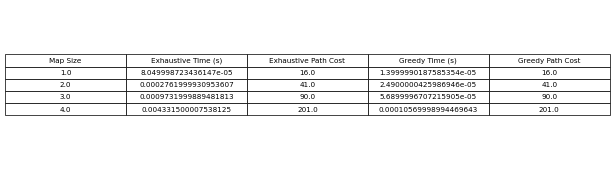
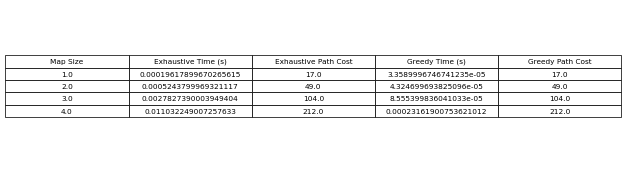
probleem ontdekt

Changed region(s): [[0.0, 0.3235, 1.0, 0.6765]]

diff --git a/assignment2_2361353_3326500_notebook_backup.py b/assignment2_2361353_3326500_notebook_backup.py
@@ -453,7 +453,6 @@ class BFSSolverShortestPath():
         Hint, use object attributes to store results.
         """
         while self.priorityqueue: 
-            self.priorityqueue.sort() # Sort the priority queue
             current_distance, current_node = self.priorityqueue.pop(0)
             
             if self.base_case(current_node): # If the base case is reached
@@ -619,11 +618,130 @@ def coordinate_to_node(map_, graph, coordinate):
 
     return closest_nodes
 
+############ CODE BLOCK 220 ################
+
+def create_country_graphs(map_):
+    """
+    This function returns a list of all graphs of a country map, where the first graph is the highways and the rest are the cities.
+
+    :param map_: The country map
+    :type map_: Map
+    :return: A list of graphs
+    :rtype: list[Graph]
+    """
+    main_graph = Graph(map_)
+    highway_graph = Graph(map_)
+    highway_graph.adjacency_list = {}
+    city_graphs = []
+
+    visited = set()
+    
+    for node, value in np.ndenumerate(map_):
+        if value == 2:  # Assuming 2 represents highways
+            highway_graph.adjacency_list[node] = set()
+        elif value == 1:  # Assuming 1 represents city roads
+            if node not in visited:
+                city_queue = deque([node])
+                city_nodes = set()
+                
+                while city_queue:
+                    current_node = city_queue.popleft()
+                    if current_node in visited:
+                        continue
+                    visited.add(current_node)
+                    city_nodes.add(current_node)
+                    
+                    for neighbor in main_graph.neighbour_coordinates(current_node):
+                        if map_[neighbor] == 1 and neighbor not in visited:
+                            city_queue.append(neighbor)
+                
+                city_graph = Graph(map_)
+                city_graph.adjacency_list = {n: set() for n in city_nodes}
+                city_graph.find_edges()
+                city_graphs.append(city_graph)
+
+    highway_graph.find_edges()
+    return [highway_graph] + city_graphs
+
+############ CODE BLOCK 230 ################
+
+class BFSSolverMultipleFastestPaths(BFSSolverFastestPath):
+    """
+    A class instance should at least contain the following attributes after being called:
+        :param priorityqueue: A priority queue that contains all the nodes that need to be visited including the time it takes to reach these nodes.
+        :type priorityqueue: list[tuple[tuple[int], float]]
+        :param history: A dictionary containing the nodes that are visited and as values the node that leads to this node including the time it takes from the start node.
+        :type history: dict[tuple[int], tuple[tuple[int], float]]
+        :param found_destinations: The destinations already found with Dijkstra.
+        :type found_destinations: list[tuple[int]]
+    """
+    def __init__(self, find_at_most=3):
+        """
+        This init makes it possible to make a different Dijkstra algorithm 
+        that find more or less destination nodes before it stops searching.
+
+        :param find_at_most: The number of found destination nodes before the algorithm stops
+        :type find_at_most: int
+        """
+        self.find_at_most = find_at_most
+    
+    def __call__(self, graph, sources, destinations, vehicle_speed):      
+        """
+        This method gives the top three fastest routes through the grid from any of the sources to any of the destinations.
+        You start at the sources and the algorithm ends if you reach enough destinations, both nodes should be included in the path.
+        A route consists of a list of nodes (which are coordinates).
+
+        :param graph: The graph that represents the map.
+        :type graph: Graph
+        :param sources: The nodes where the path starts and the time it took to get here.
+        :type sources: list[tuple[tuple[int], float]]
+        :param destinations: The nodes where the path ends and the time it took to get here.
+        :type destinations: list[tuple[tuple[int], float]]
+        :param vehicle_speed: The maximum speed of the vehicle.
+        :type vehicle_speed: float
+        :return: A list of the n fastest paths and time they take, sorted from fastest to slowest 
+        :rtype: list[tuple[path, float]], where path is a fictional data type consisting of a list[tuple[int]]
+        """       
+        self.priorityqueue = sorted(sources, key=lambda x:x[1])
+        self.history = {s: (None, t) for s, t in sources}
+        
+        self.destinations = destinations
+        self.destination_nodes = [dest[0] for dest in destinations]
+        self.found_destinations = []
+
+        raise NotImplementedError("Please complete this method")       
+
+    def find_n_paths(self):
+        """
+        This method needs to find the top `n` fastest paths between any source node and any destination node.
+        This does not mean that each source node has to be in a path nor that each destination node needs to be in a path.
+
+        Hint1: The fastest path is stored in each node by linking to the previous node. 
+               Therefore, if you start searching from a destination node,
+               you always find the optimal path from that destination node.
+               This is similar if you only had one destination node.         
+
+        :return: A list of the n fastest paths and time they take, sorted from fastest to slowest 
+        :rtype: list[tuple[path, float]], where path is a fictional data type consisting of a list[tuple[int]]
+        """
+        raise NotImplementedError("Please complete this method")       
+        
+    def base_case(self, node):
+        """
+        This method checks if the base case is reached and
+        updates self.found_destinations
+
+        :param node: The current node
+        :type node: tuple[int]
+        :return: Returns True if the base case is reached.
+        :rtype: bool
+        """
+        raise NotImplementedError("Please complete this method")
+
 ############ CODE BLOCK 300 ################
 
 def path_length(coordinate, closest_nodes, map_, vehicle_speed):
     return [(node, (abs(node[0] - coordinate[0]) + abs(node[1] - coordinate[1])) / min(vehicle_speed, map_[coordinate])) for node in closest_nodes]
-
 
 def find_path(coordinate_A, coordinate_B, map_, vehicle_speed, find_at_most=3):
     """
@@ -649,10 +767,6 @@ def find_path(coordinate_A, coordinate_B, map_, vehicle_speed, find_at_most=3):
     closest_nodes_A = coordinate_to_node(map_, graph, coordinate_A)
     closest_nodes_B = coordinate_to_node(map_, graph, coordinate_B)
     
-    # Debugging
-    print(f"Closest nodes to A: {closest_nodes_A}")
-    print(f"Closest nodes to B: {closest_nodes_B}")
-    
     # Calculate path length for each closest node
     path_lengths_A = path_length(coordinate_A, closest_nodes_A, map_, vehicle_speed)
     path_lengths_B = path_length(coordinate_B, closest_nodes_B, map_, vehicle_speed)
@@ -660,39 +774,27 @@ def find_path(coordinate_A, coordinate_B, map_, vehicle_speed, find_at_most=3):
     # Find the highway exits for the cities of coordinate A and coordinate B
     highway_exits = map_.get_all_city_exits()
     
-    # Debugging
-    print(f"Highway exits: {highway_exits}")
-    
     # Find the nearest highway exits for closest nodes A and B
     closest_exit_A = min(highway_exits, key=lambda exit: min([abs(exit[0] - node[0]) + abs(exit[1] - node[1]) for node in closest_nodes_A]))
     closest_exit_B = min(highway_exits, key=lambda exit: min([abs(exit[0] - node[0]) + abs(exit[1] - node[1]) for node in closest_nodes_B]))
-    
-    # Debugging
-    print(f"Closest exit to A: {closest_exit_A}")
-    print(f"Closest exit to B: {closest_exit_B}")
     
     # Initialize the BFS solver for the fastest path
     bfs_solver = BFSSolverFastestPath()
     
     # Find the path from Coordinate A to Closest Node A
     path_A_to_node_A, time_A_to_node_A = bfs_solver(graph, coordinate_A, closest_nodes_A[0], vehicle_speed)
-    print(f"Path A to Node A: {path_A_to_node_A}, Time: {time_A_to_node_A}")
     
     # Find the path from Closest Node A to Highway Exit A
     path_node_A_to_exit_A, time_node_A_to_exit_A = bfs_solver(graph, closest_nodes_A[0], closest_exit_A, vehicle_speed)
-    print(f"Path Node A to Exit A: {path_node_A_to_exit_A}, Time: {time_node_A_to_exit_A}")
     
     # Find the path from Highway Exit A to Highway Exit B
     path_exit_A_to_exit_B, time_exit_A_to_exit_B = bfs_solver(graph, closest_exit_A, closest_exit_B, vehicle_speed)
-    print(f"Path Exit A to Exit B: {path_exit_A_to_exit_B}, Time: {time_exit_A_to_exit_B}")
     
     # Find the path from Highway Exit B to Closest Node B
     path_exit_B_to_node_B, time_exit_B_to_node_B = bfs_solver(graph, closest_exit_B, closest_nodes_B[0], vehicle_speed)
-    print(f"Path Exit B to Node B: {path_exit_B_to_node_B}, Time: {time_exit_B_to_node_B}")
     
     # Find the path from Closest Node B to Coordinate B
     path_node_B_to_B, time_node_B_to_B = bfs_solver(graph, closest_nodes_B[0], coordinate_B, vehicle_speed)
-    print(f"Path Node B to B: {path_node_B_to_B}, Time: {time_node_B_to_B}")
     
     # Combine all paths
     total_path = path_A_to_node_A + path_node_A_to_exit_A[1:] + path_exit_A_to_exit_B[1:] + path_exit_B_to_node_B[1:] + path_node_B_to_B[1:]

diff --git a/assignment2_2361353_3326500_notebook.py b/assignment2_2361353_3326500_notebook.py
@@ -453,7 +453,6 @@ class BFSSolverShortestPath():
         Hint, use object attributes to store results.
         """
         while self.priorityqueue: 
-            self.priorityqueue.sort() # Sort the priority queue
             current_distance, current_node = self.priorityqueue.pop(0)
             
             if self.base_case(current_node): # If the base case is reached
@@ -703,88 +702,41 @@ class BFSSolverMultipleFastestPaths(BFSSolverFastestPath):
         :return: A list of the n fastest paths and time they take, sorted from fastest to slowest 
         :rtype: list[tuple[path, float]], where path is a fictional data type consisting of a list[tuple[int]]
         """       
-        self.priorityqueue = sorted(sources, key=lambda x: x[1])
+        self.priorityqueue = sorted(sources, key=lambda x:x[1])
         self.history = {s: (None, t) for s, t in sources}
         
         self.destinations = destinations
-        self.destination_nodes = [tuple(dest[0]) for dest in destinations]
+        self.destination_nodes = [dest[0] for dest in destinations]
         self.found_destinations = []
 
-        self.main_loop()
-        return self.find_n_paths()
-
-    def main_loop(self):
-        """
-        This method contains the logic of the flood-fill algorithm for the shortest path problem,
-        adjusted to handle multiple source nodes and find n paths.
-        """
-        while self.priorityqueue and len(self.found_destinations) < self.find_at_most:
-            self.priorityqueue.sort()
-            current_cost, current_node = self.priorityqueue.pop(0)
-            
-            if self.base_case(current_node):
-                continue
-            
-            for neighbor, distance, speed_limit in self.next_step(current_node):
-                self.step(current_node, neighbor, distance, speed_limit)
-
-    def base_case(self, node):
-        """
-        This method checks if the base case is reached and
-        updates self.found_destinations.
-
-        :param node: The current node
-        :type node: tuple[int]
-        :return: Returns True if the base case is reached.
-        :rtype: bool
-        """
-        if tuple(node) in self.destination_nodes:
-            self.found_destinations.append(node)
-            return True
-        return False
+        raise NotImplementedError("Please complete this method")       
 
     def find_n_paths(self):
         """
         This method needs to find the top `n` fastest paths between any source node and any destination node.
         This does not mean that each source node has to be in a path nor that each destination node needs to be in a path.
 
+        Hint1: The fastest path is stored in each node by linking to the previous node. 
+               Therefore, if you start searching from a destination node,
+               you always find the optimal path from that destination node.
+               This is similar if you only had one destination node.         
+
         :return: A list of the n fastest paths and time they take, sorted from fastest to slowest 
         :rtype: list[tuple[path, float]], where path is a fictional data type consisting of a list[tuple[int]]
         """
-        paths = []
-        for destination in self.found_destinations:
-            path = []
-            step = destination
-            while step is not None:
-                path.append(step)
-                step = self.history[step][0]
-            path.reverse()
-            total_cost = self.history[destination][1]
-            dest_cost = next(dest[1] for dest in self.destinations if tuple(dest[0]) == tuple(destination))
-            total_cost += dest_cost
-            paths.append((path, total_cost))
+        raise NotImplementedError("Please complete this method")       
         
-        paths.sort(key=lambda x: x[1])
-        return paths[:self.find_at_most]
+    def base_case(self, node):
+        """
+        This method checks if the base case is reached and
+        updates self.found_destinations
 
-# Testing the function
-# If you put the map generated in a separate cell you can run multiple tests on the same map
-map_ = Map(2, (1,3))
-
-plt.matplotlib.rcParams['figure.dpi'] = min(1000, max(50, map_.size ** 0.5 // 4))  # Number of pixels, therefore, the quality of the image. A large dpi is very slow.
-
-graph = Graph(map_)
-start = [((0,0), 0)]
-ends = [(graph.get_random_node(), 0), (graph.get_random_node(), 0), (graph.get_random_node(), 0)]
-vehicle_speed = 180
-
-print(ends)
-paths = BFSSolverMultipleFastestPaths()(graph, start, ends, vehicle_speed)
-for path, time in paths:
-    print(f"The estimate travel time for the path is: {time}")
-    print(path)
-    graph.show_coordinates(color='r', size=10)
-    map_.show(path, True)
+        :param node: The current node
+        :type node: tuple[int]
+        :return: Returns True if the base case is reached.
+        :rtype: bool
+        """
+        raise NotImplementedError("Please complete this method")
 
 
 ############ END OF CODE BLOCKS, START SCRIPT BELOW! ################
